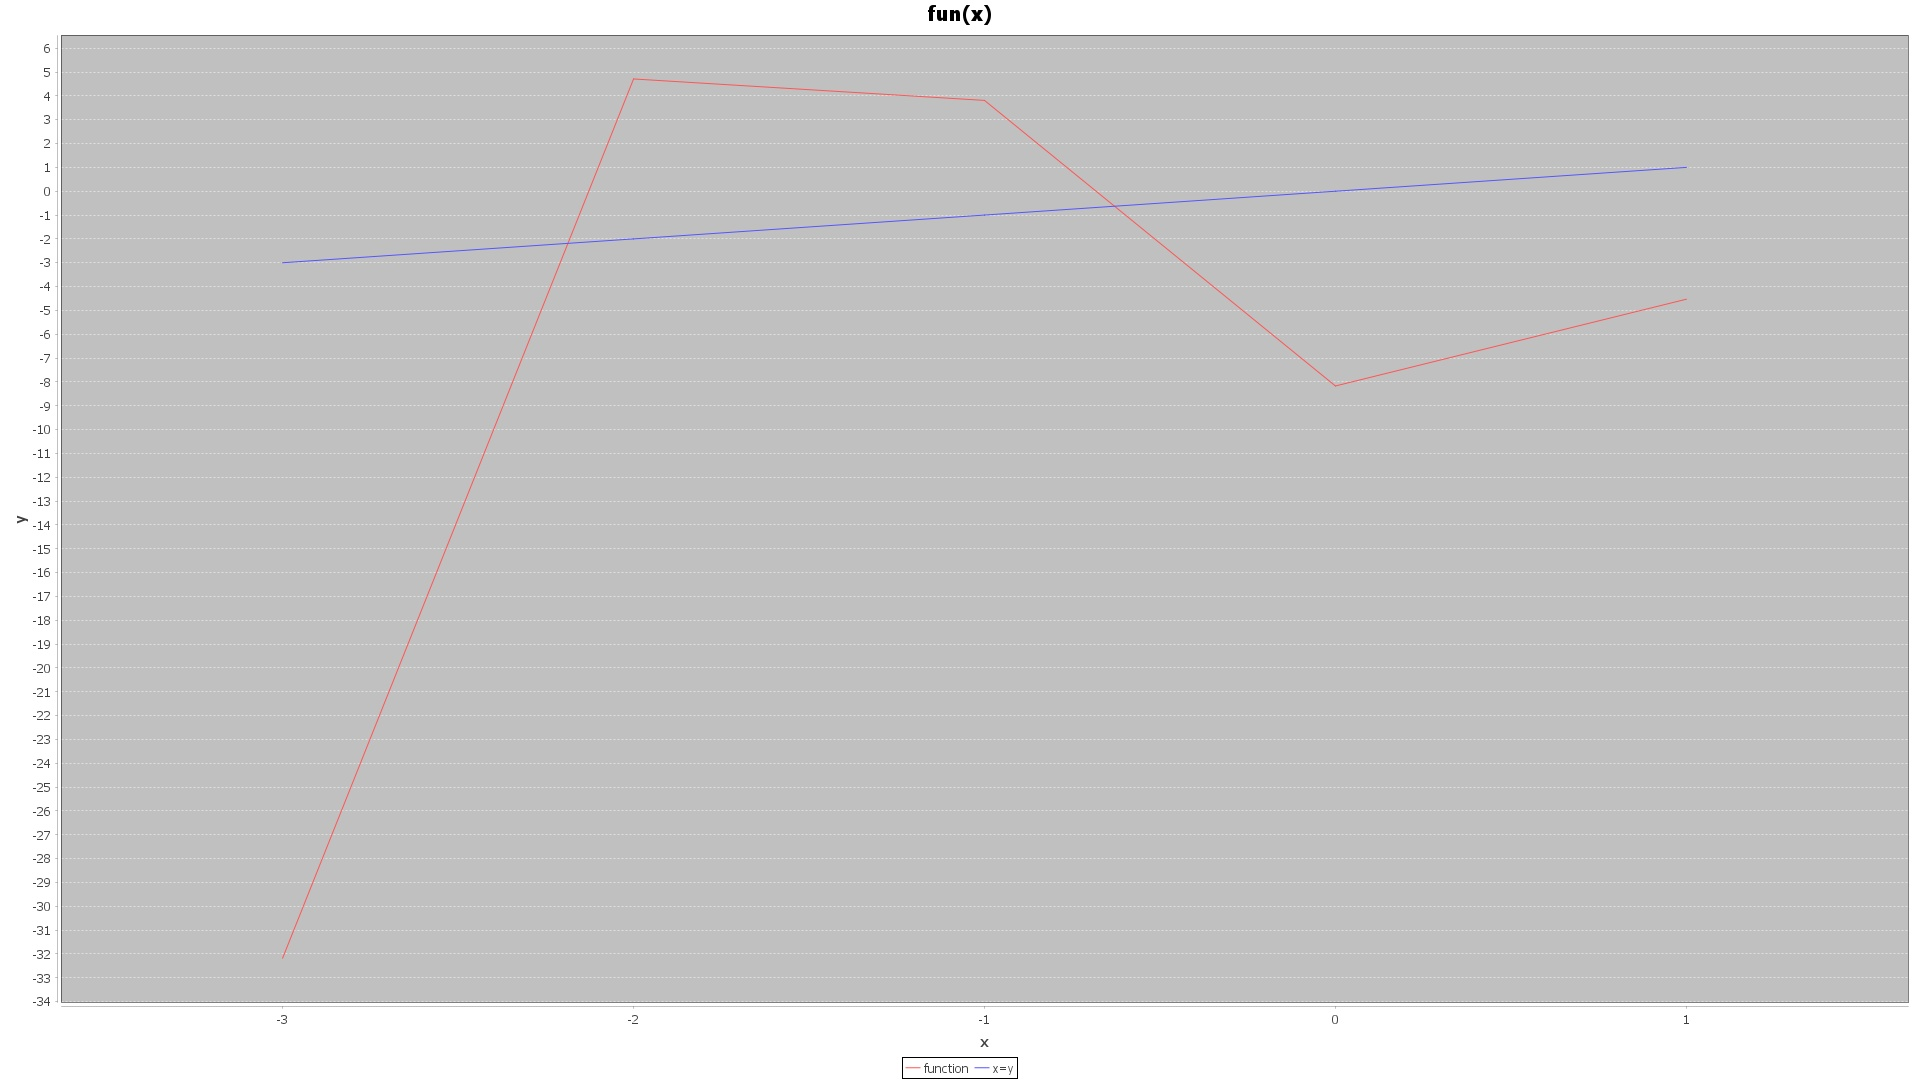
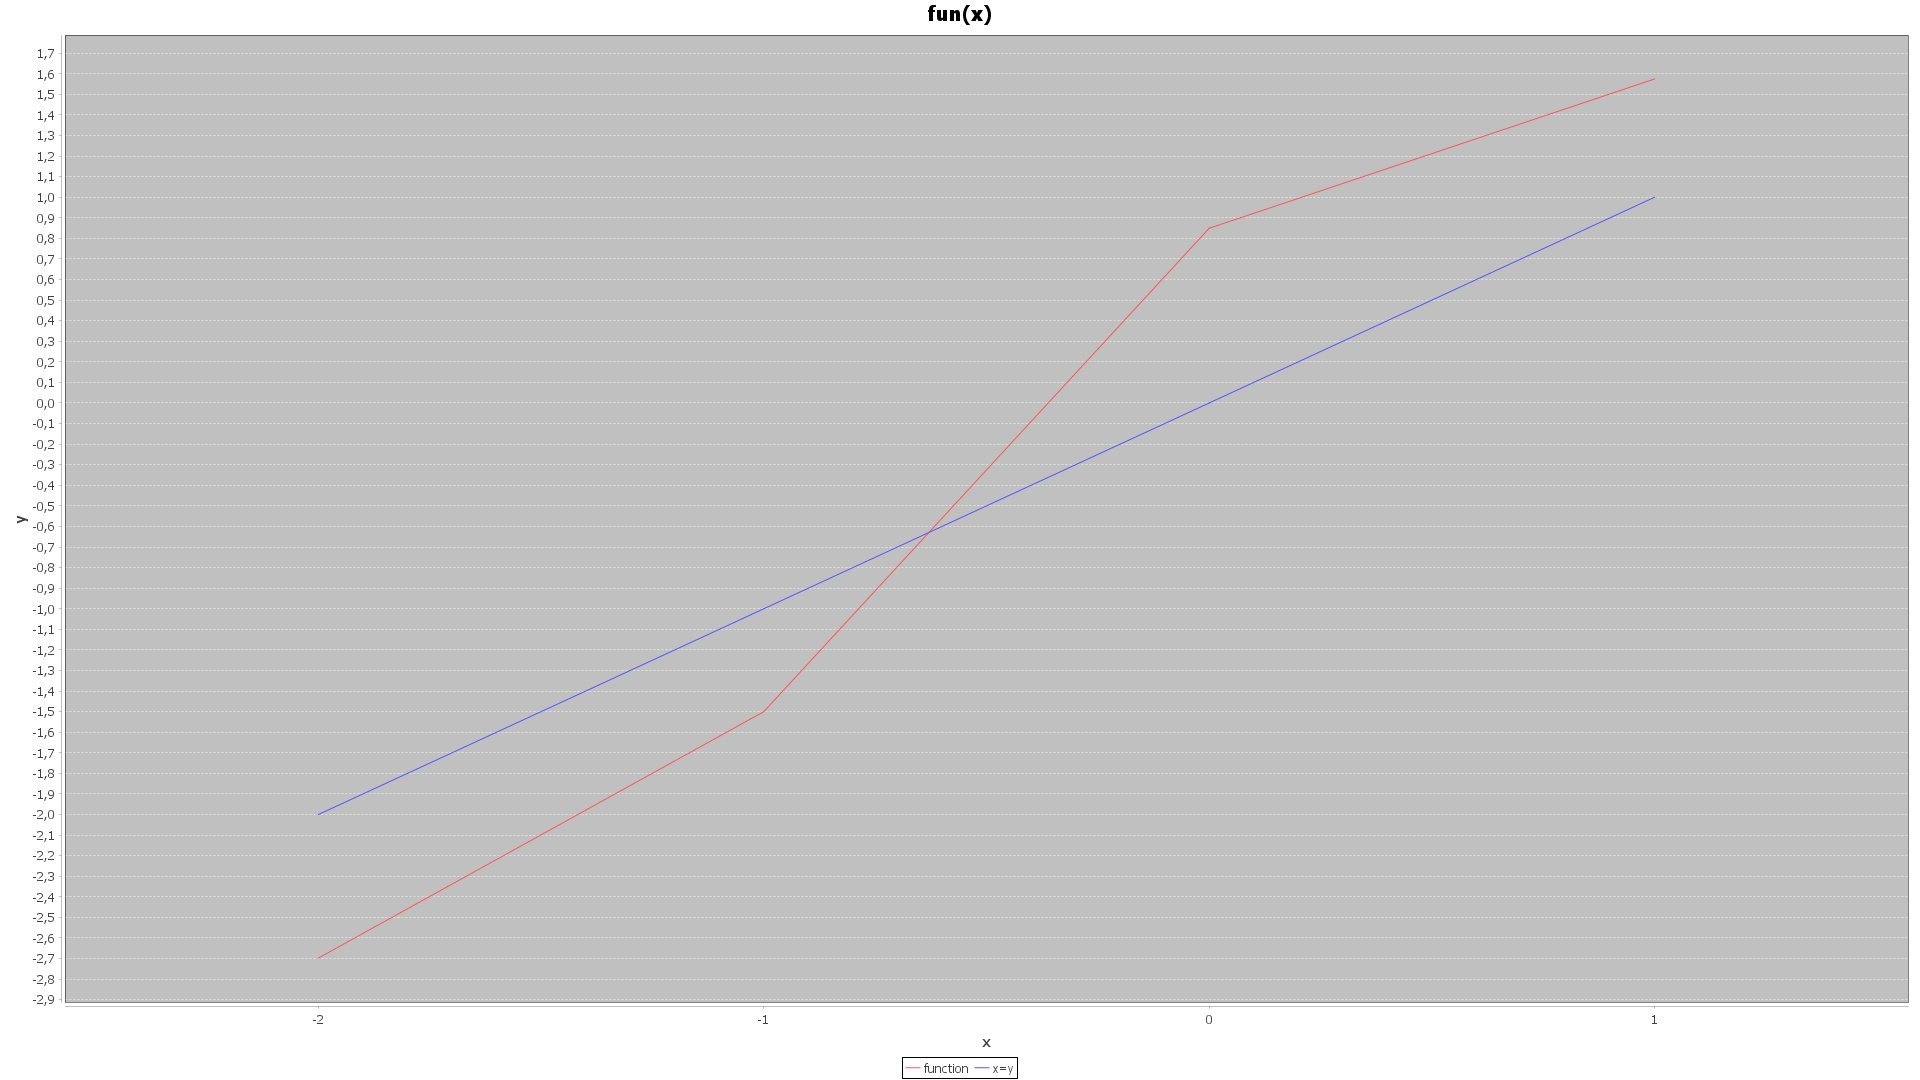
Исправлен график

diff --git a/src/main/java/DrawChart.java b/src/main/java/DrawChart.java
@@ -1,76 +1,95 @@
 import org.jfree.chart.ChartFactory;
-import org.jfree.chart.ChartUtilities;
+import org.jfree.chart.ChartUtils;
 import org.jfree.chart.JFreeChart;
 import org.jfree.chart.plot.PlotOrientation;
+import org.jfree.chart.plot.ValueMarker;
+import org.jfree.chart.plot.XYPlot;
+import org.jfree.data.category.CategoryDataset;
 import org.jfree.data.category.DefaultCategoryDataset;
+import org.jfree.data.xy.XYSeries;
+import org.jfree.data.xy.XYSeriesCollection;
 
+import java.awt.*;
 import java.io.File;
 import java.io.IOException;
 
+
 public class DrawChart {
-    //Отрисовка графика функции в файл
-    public void draw(long a, long b) {
-        a -= 1;
-        b += 1;
+    Functions functions = new Functions();
 
-        DefaultCategoryDataset line_chart_dataset = new DefaultCategoryDataset();
-
-        for (long i = a; i <= b; i++) {
-            line_chart_dataset.addValue(4.45 * Math.pow(i, 3) + 7.81 * Math.pow(i, 2) - 9.62 * i - 8.17,
-                    "function", String.valueOf(i));
-        }
+    private void rawDraw(XYSeriesCollection lineDataset) {
 
 
-        JFreeChart lineChartObject = ChartFactory.createLineChart(
-                "fun(x)", "x",
+        JFreeChart lineChart = ChartFactory.createXYLineChart(
+                "f(x)", "x",
                 "y",
-                line_chart_dataset, PlotOrientation.VERTICAL,
+                lineDataset, PlotOrientation.VERTICAL,
                 true, true, false);
 
-        int width = 1920;    /* Width of the image */
-        int height = 1080;   /* Height of the image */
-        File lineChart = new File("src/main/res/Chart.jpeg");
+        int width = 1920;
+        int height = 1080;
+
+
+
+
+
+
         try {
-            ChartUtilities.saveChartAsJPEG(lineChart, lineChartObject, width, height);
+            ChartUtils.saveChartAsJPEG(new File("src/main/res/Chart.jpeg"), lineChart, width, height);
         } catch (IOException e) {
-            e.printStackTrace();
+            System.out.println(e.getMessage());
         }
     }
 
-    private double f(double x) {
-        return 4.45 * Math.pow(x, 3) + 7.81 * Math.pow(x, 2) - 9.62 * x - 8.17;
+
+
+    public void drawForIteration(double a, double b, double lambda, int number) {
+        XYSeriesCollection lineDataset = new XYSeriesCollection ();
+
+        a = a - 1;
+        b = b + 1;
+
+        XYSeries function = new XYSeries("function");
+
+        double len = b-a;
+        for (double i = a; i <= b; i+=len/12) {
+            function.add(i,i - lambda * functions.f(i, number));
+        }
+
+        XYSeries zero = new XYSeries("zero");
+        zero.add(a,0);
+        zero.add(b,0);
+
+
+        lineDataset.addSeries(function);
+        lineDataset.addSeries(zero);
+
+        rawDraw(lineDataset);
+
     }
 
-    public void drawForIt(long a, long b, double lambda) {
-        a -= 1;
-        b += 1;
+    public void draw(double a, double b, int number){
+        XYSeriesCollection lineDataset = new XYSeriesCollection ();
 
-        DefaultCategoryDataset line_chart_dataset = new DefaultCategoryDataset();
+        a = a - 1;
+        b = b + 1;
 
-        for (long i = a; i <= b; i++) {
-            line_chart_dataset.addValue(i - lambda * f(i),
-                    "function", String.valueOf(i));
+
+        XYSeries function = new XYSeries("function");
+        double len = b-a;
+        for (double i = a; i <= b; i+=len/12) {
+            function.add(i,functions.f(i, number));
         }
 
-        for (long i = a; i <= b; i++) {
-            line_chart_dataset.addValue(i,
-                    "x=y", String.valueOf(i));
-        }
+        XYSeries zero = new XYSeries("zero");
+        zero.add(a,0);
+        zero.add(b,0);
 
 
-        JFreeChart lineChartObject = ChartFactory.createLineChart(
-                "fun(x)", "x",
-                "y",
-                line_chart_dataset, PlotOrientation.VERTICAL,
-                true, true, false);
+        lineDataset.addSeries(function);
+        lineDataset.addSeries(zero);
 
-        int width = 1920;    /* Width of the image */
-        int height = 1080;   /* Height of the image */
-        File lineChart = new File("Chart.jpeg");
-        try {
-            ChartUtilities.saveChartAsJPEG(lineChart, lineChartObject, width, height);
-        } catch (IOException e) {
-            e.printStackTrace();
-        }
+        rawDraw(lineDataset);
+
     }
 }

diff --git a/src/main/java/Method5.java b/src/main/java/Method5.java
@@ -45,7 +45,8 @@ public class Method5 { //Метод простых итераций
                 if (!flag_file) {
                     System.out.println("Критерий окончания:  |Xn - Xn-1| > (1-q)*e/q ");
                 } else {
-                    writer.write("Критерий окончания:  |Xn - Xn-1| > (1-q)*e/q \n");
+                    writer.write("Критерий окончания:  |Xn - Xn-1| > (1-q)*e/q \n\n");
+                    writer.flush();
                 }
             }
             else if (q >0 && q <= 0.5) {
@@ -107,6 +108,6 @@ public class Method5 { //Метод простых итераций
                 writer.flush();
             }
         }
-        drawChart.drawForIt(Math.round(a), Math.round(b), lambda);
+        drawChart.drawForIteration(Math.round(a), Math.round(b), lambda, number);
     }
 }

diff --git a/src/main/java/Method2.java b/src/main/java/Method2.java
@@ -32,6 +32,12 @@ public class Method2 { //Метод хорд
         }
 
         start_X = functions.setStartX(a, b, number);
+        boolean flagA = false;
+        if (start_X == a) {
+
+        } else {
+            flagA = true;
+        }
         if (start_X == a)
             end_X = b;
         else
@@ -84,6 +90,6 @@ public class Method2 { //Метод хорд
             writer.flush();
         }
 
-        drawChart.draw(Math.round(a), Math.round(b));
+        drawChart.draw(Math.round(a), Math.round(b), number);
     }
 }

diff --git a/src/main/java/Method4.java b/src/main/java/Method4.java
@@ -77,6 +77,6 @@ public class Method4 { //Метод секущих
             writer.write(String.format("f(x*) = %.10f%n", functions.f(start_X, number)));
             writer.flush();
         }
-        drawChart.draw(Math.round(a), Math.round(b));
+        drawChart.draw(Math.round(a), Math.round(b), number);
     }
 }
